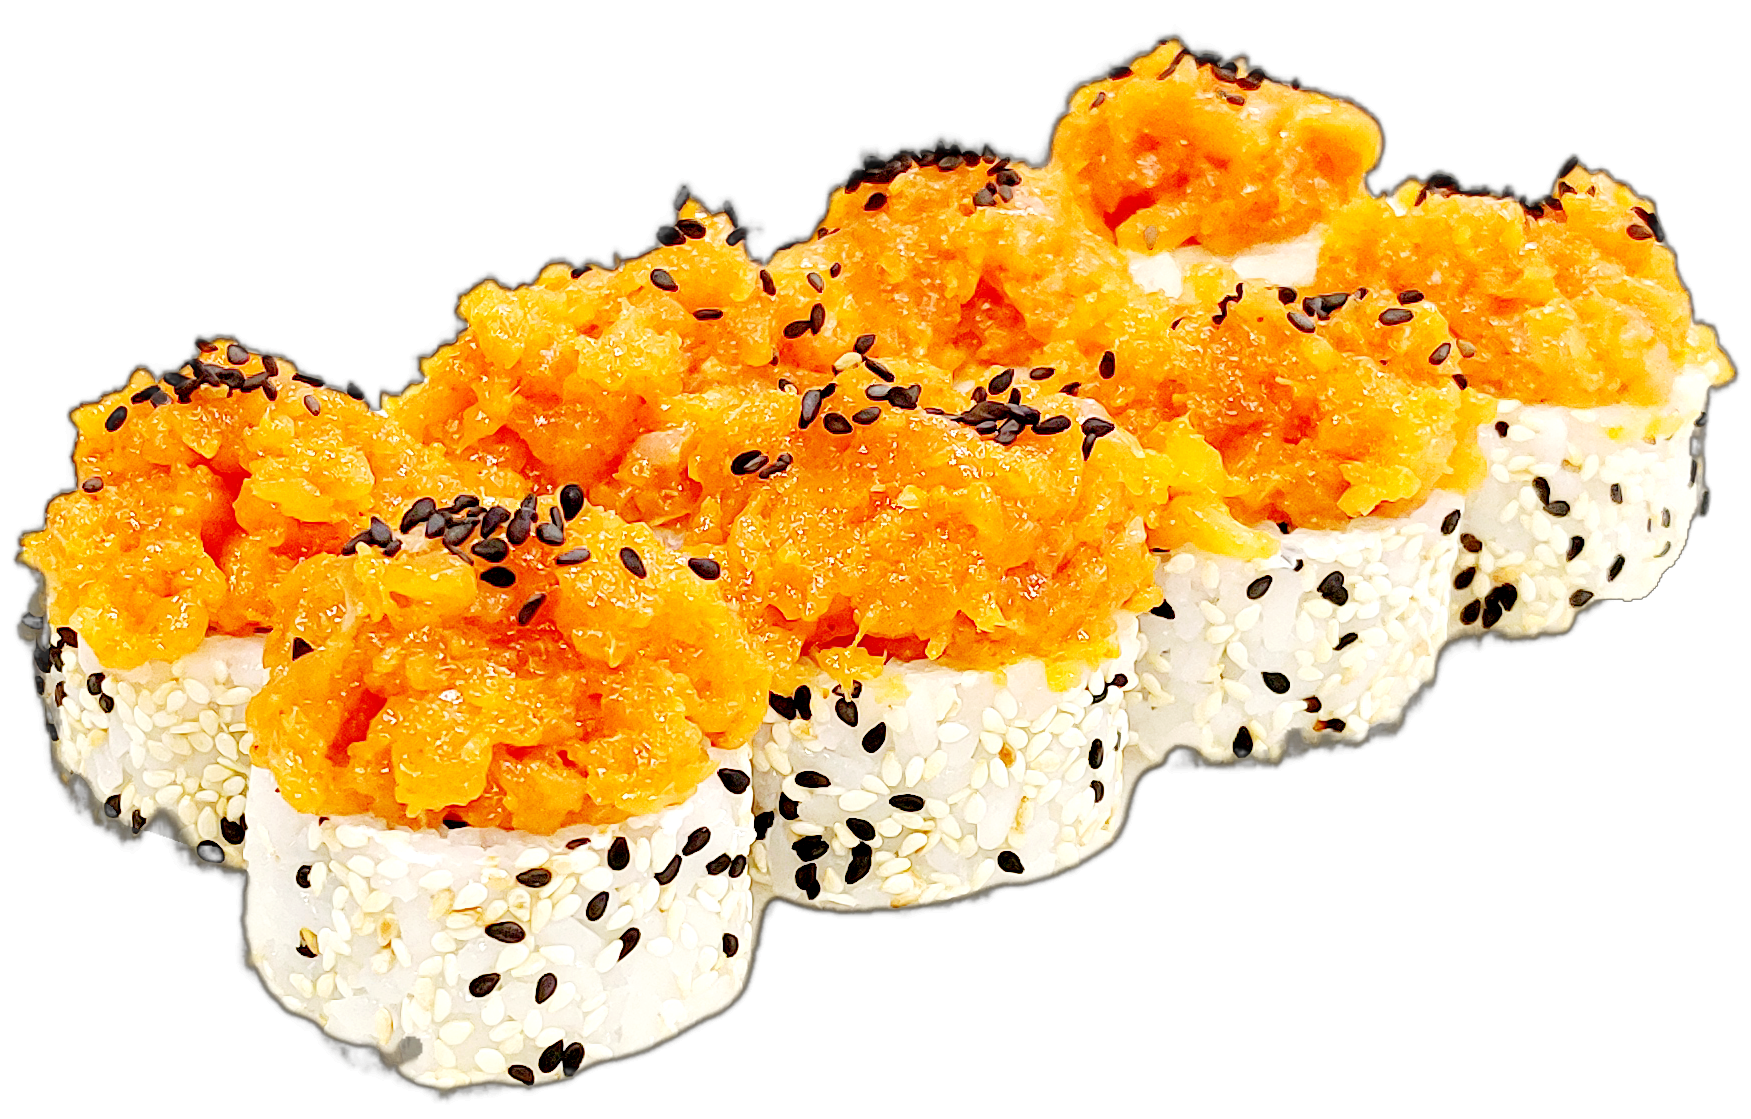
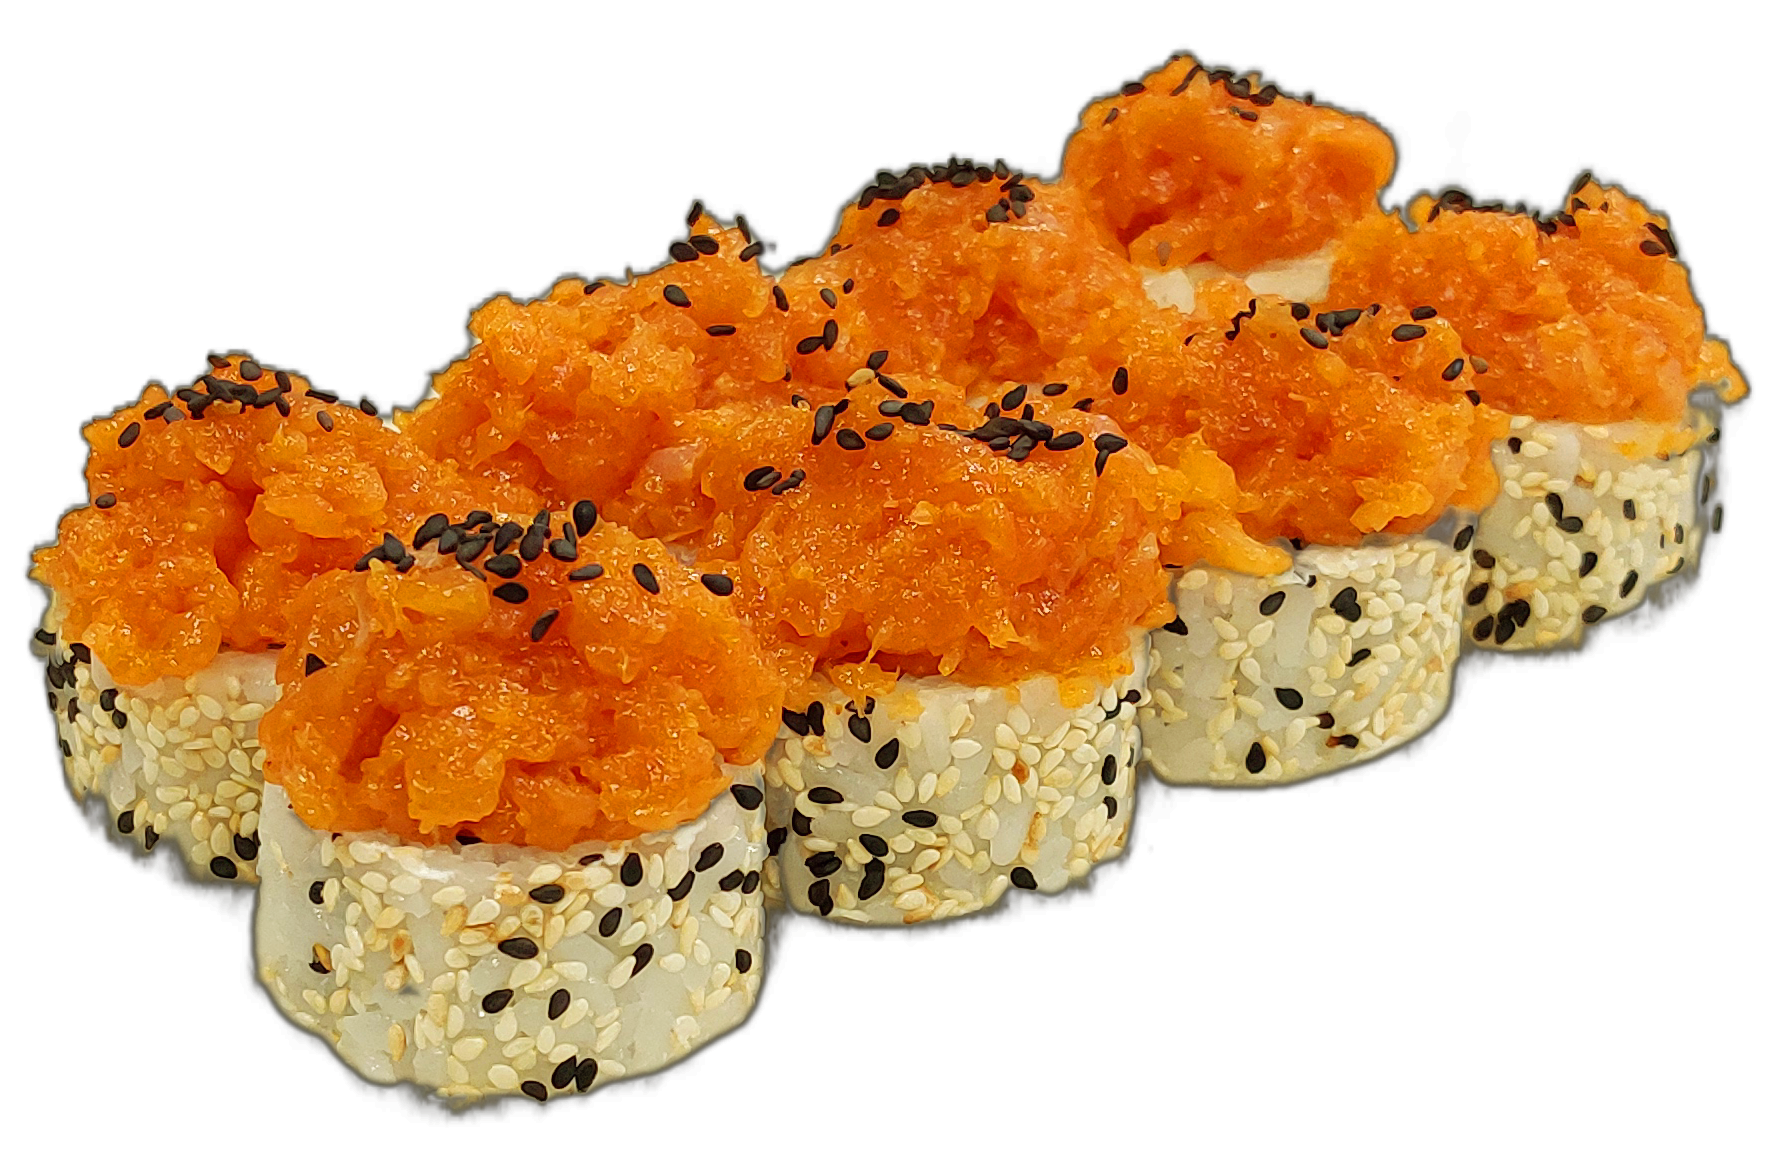
ready

diff --git a/js/modules/dishes.js b/js/modules/dishes.js
@@ -66,7 +66,7 @@ export const dishes = {
 		futomaki: {
 			title: "Futomaki (6 szt)",
 			description: "Grube rolki z minimum czterema składnikami. Algi Nori są owinięte od zewnątrz.",
-			imageUrl: 'img/Photo/F2.png',
+			imageUrl: 'img/Photo/F.png',
 			items: [
 				{ rollNumber: "Roll 13", rollName: "Wege", rollPrice: "30", plateColor: "Red", rollIngredients: "Ogórek, awokado, oshinko, kampyo, grzyby shitake, sałatka, ser" },
 				{ rollNumber: "Roll 14", rollName: "Warzywa w tempurze", rollPrice: "35", plateColor: "Orange", rollIngredients: "Kilka rodzajów warzyw smażonych w tempurze" },
@@ -185,7 +185,7 @@ export const dishes = {
 		uramak_caterpillar: {
 			title: "Uramak \"Caterpillar\" (8 szt)",
 			description: "Nadzienie jest umieszczone wewnątrz, a zewnętrzną warstwę stanowi ryż. Wierzch pokryty awokado lub mango.",
-			imageUrl: 'img/Photo/Cat2.png',
+			imageUrl: 'img/Photo/Cat.png',
 			items: [
 				{ rollNumber: "Roll 79", rollName: "Łosoś z awokado", rollPrice: "40", plateColor: "Yellow", rollIngredients: "Łosoś, awokado, ogórek, ser" },
 				{ rollNumber: "Roll 80", rollName: "Łosoś z mango", rollPrice: "40", plateColor: "Yellow", rollIngredients: "Łosoś mango, kampyo, ser" },
@@ -229,7 +229,7 @@ export const dishes = {
 		datemaki: {
 			title: "Datemaki (6 szt)",
 			description: "Rolki zawijane zamiast w nori w słodki omlet jajeczny.",
-			imageUrl: 'img/Photo/D2.png',
+			imageUrl: 'img/Photo/D.png',
 			items: [
 				{ rollNumber: "Roll 106", rollName: "Surimi", rollPrice: "40", plateColor: "Red", rollIngredients: "Surimi, ogórek, oshinko, ser" },
 				{ rollNumber: "Roll 107", rollName: "Sałatka Krabowa", rollPrice: "40", plateColor: "Red", rollIngredients: "Sałatka Krabowa, ser" },
@@ -243,7 +243,7 @@ export const dishes = {
 		sashimi_roll: {
 			title: "Sashimi roll (8 szt)",
 			description: "Nadzienie zawinięte w papier ryżowy. Bez ryżu.",
-			imageUrl: 'img/Photo/SR2.png',
+			imageUrl: 'img/Photo/SR.png',
 			items: [
 				{ rollNumber: "Roll 113", rollName: "Wege", rollPrice: "30", plateColor: "Green", rollIngredients: "Goma Wakame, ogórek, awokado, oshinko, kampyo, grzyby shitake, sałatka, ser" },
 				{ rollNumber: "Roll 114", rollName: "Łosoś", rollPrice: "50", plateColor: "Red", rollIngredients: "Łosoś, ogórek, awokado, oshinko, kampyo, sałatka, ser" },
@@ -335,7 +335,7 @@ export const dishes = {
 		futomaki: {
 			title: "Futomaki (6 шт)",
 			description: "Грубі роли з мінімум чотирма інгредієнтами. Водорості Норі обгорнуті зовні.",
-			imageUrl: 'img/Photo/F2.png',
+			imageUrl: 'img/Photo/F.png',
 			items: [
 				{ rollNumber: "Roll 13", rollName: "Веге", rollPrice: "30", plateColor: "Red", rollIngredients: "Огірок, авокадо, ошінко, кампьо, гриби шітаке, салат, сир" },
 				{ rollNumber: "Roll 14", rollName: "Овочі в темпурі", rollPrice: "35", plateColor: "Orange", rollIngredients: "Кілька видів овочів, смажених у темпурі" },
@@ -454,7 +454,7 @@ export const dishes = {
 		uramak_caterpillar: {
 			title: "Uramak \"Caterpillar\" (8 шт)",
 			description: "Начинка розміщена всередині, а зовнішній шар складається з рису. Верх покритий авокадо або манго.",
-			imageUrl: 'img/Photo/Cat2.png',
+			imageUrl: 'img/Photo/Cat.png',
 			items: [
 				{ rollNumber: "Roll 79", rollName: "Лосось з авокадо", rollPrice: "40", plateColor: "Yellow", rollIngredients: "Лосось, авокадо, огірок, сир" },
 				{ rollNumber: "Roll 80", rollName: "Лосось з манго", rollPrice: "40", plateColor: "Yellow", rollIngredients: "Лосось, манго, кампйо, сир" },
@@ -498,7 +498,7 @@ export const dishes = {
 		datemaki: {
 			title: "Datemaki (6 шт)",
 			description: "Роли загорнуті не в норі, а в солодкий яєчний омлет.",
-			imageUrl: 'img/Photo/D2.png',
+			imageUrl: 'img/Photo/D.png',
 			items: [
 				{ rollNumber: "Roll 106", rollName: "Сурімі", rollPrice: "40", plateColor: "Red", rollIngredients: "Сурімі, огірок, ошінко, сир" },
 				{ rollNumber: "Roll 107", rollName: "Крабовий салат", rollPrice: "40", plateColor: "Red", rollIngredients: "Крабовий салат, сир" },
@@ -512,7 +512,7 @@ export const dishes = {
 		sashimi_roll: {
 			title: "Sashimi roll (8 шт)",
 			description: "Начинка загорнута в рисовий папір. Без рису.",
-			imageUrl: 'img/Photo/SR2.png',
+			imageUrl: 'img/Photo/SR.png',
 			items: [
 				{ rollNumber: "Roll 113", rollName: "Вегетаріанський", rollPrice: "30", plateColor: "Green", rollIngredients: "Goma Wakame, огірок, авокадо, ошінко, кампйо, гриби шітаке, салат, сир" },
 				{ rollNumber: "Roll 114", rollName: "Лосось", rollPrice: "50", plateColor: "Red", rollIngredients: "Лосось, огірок, авокадо, ошінко, кампйо, салат, сир" },
